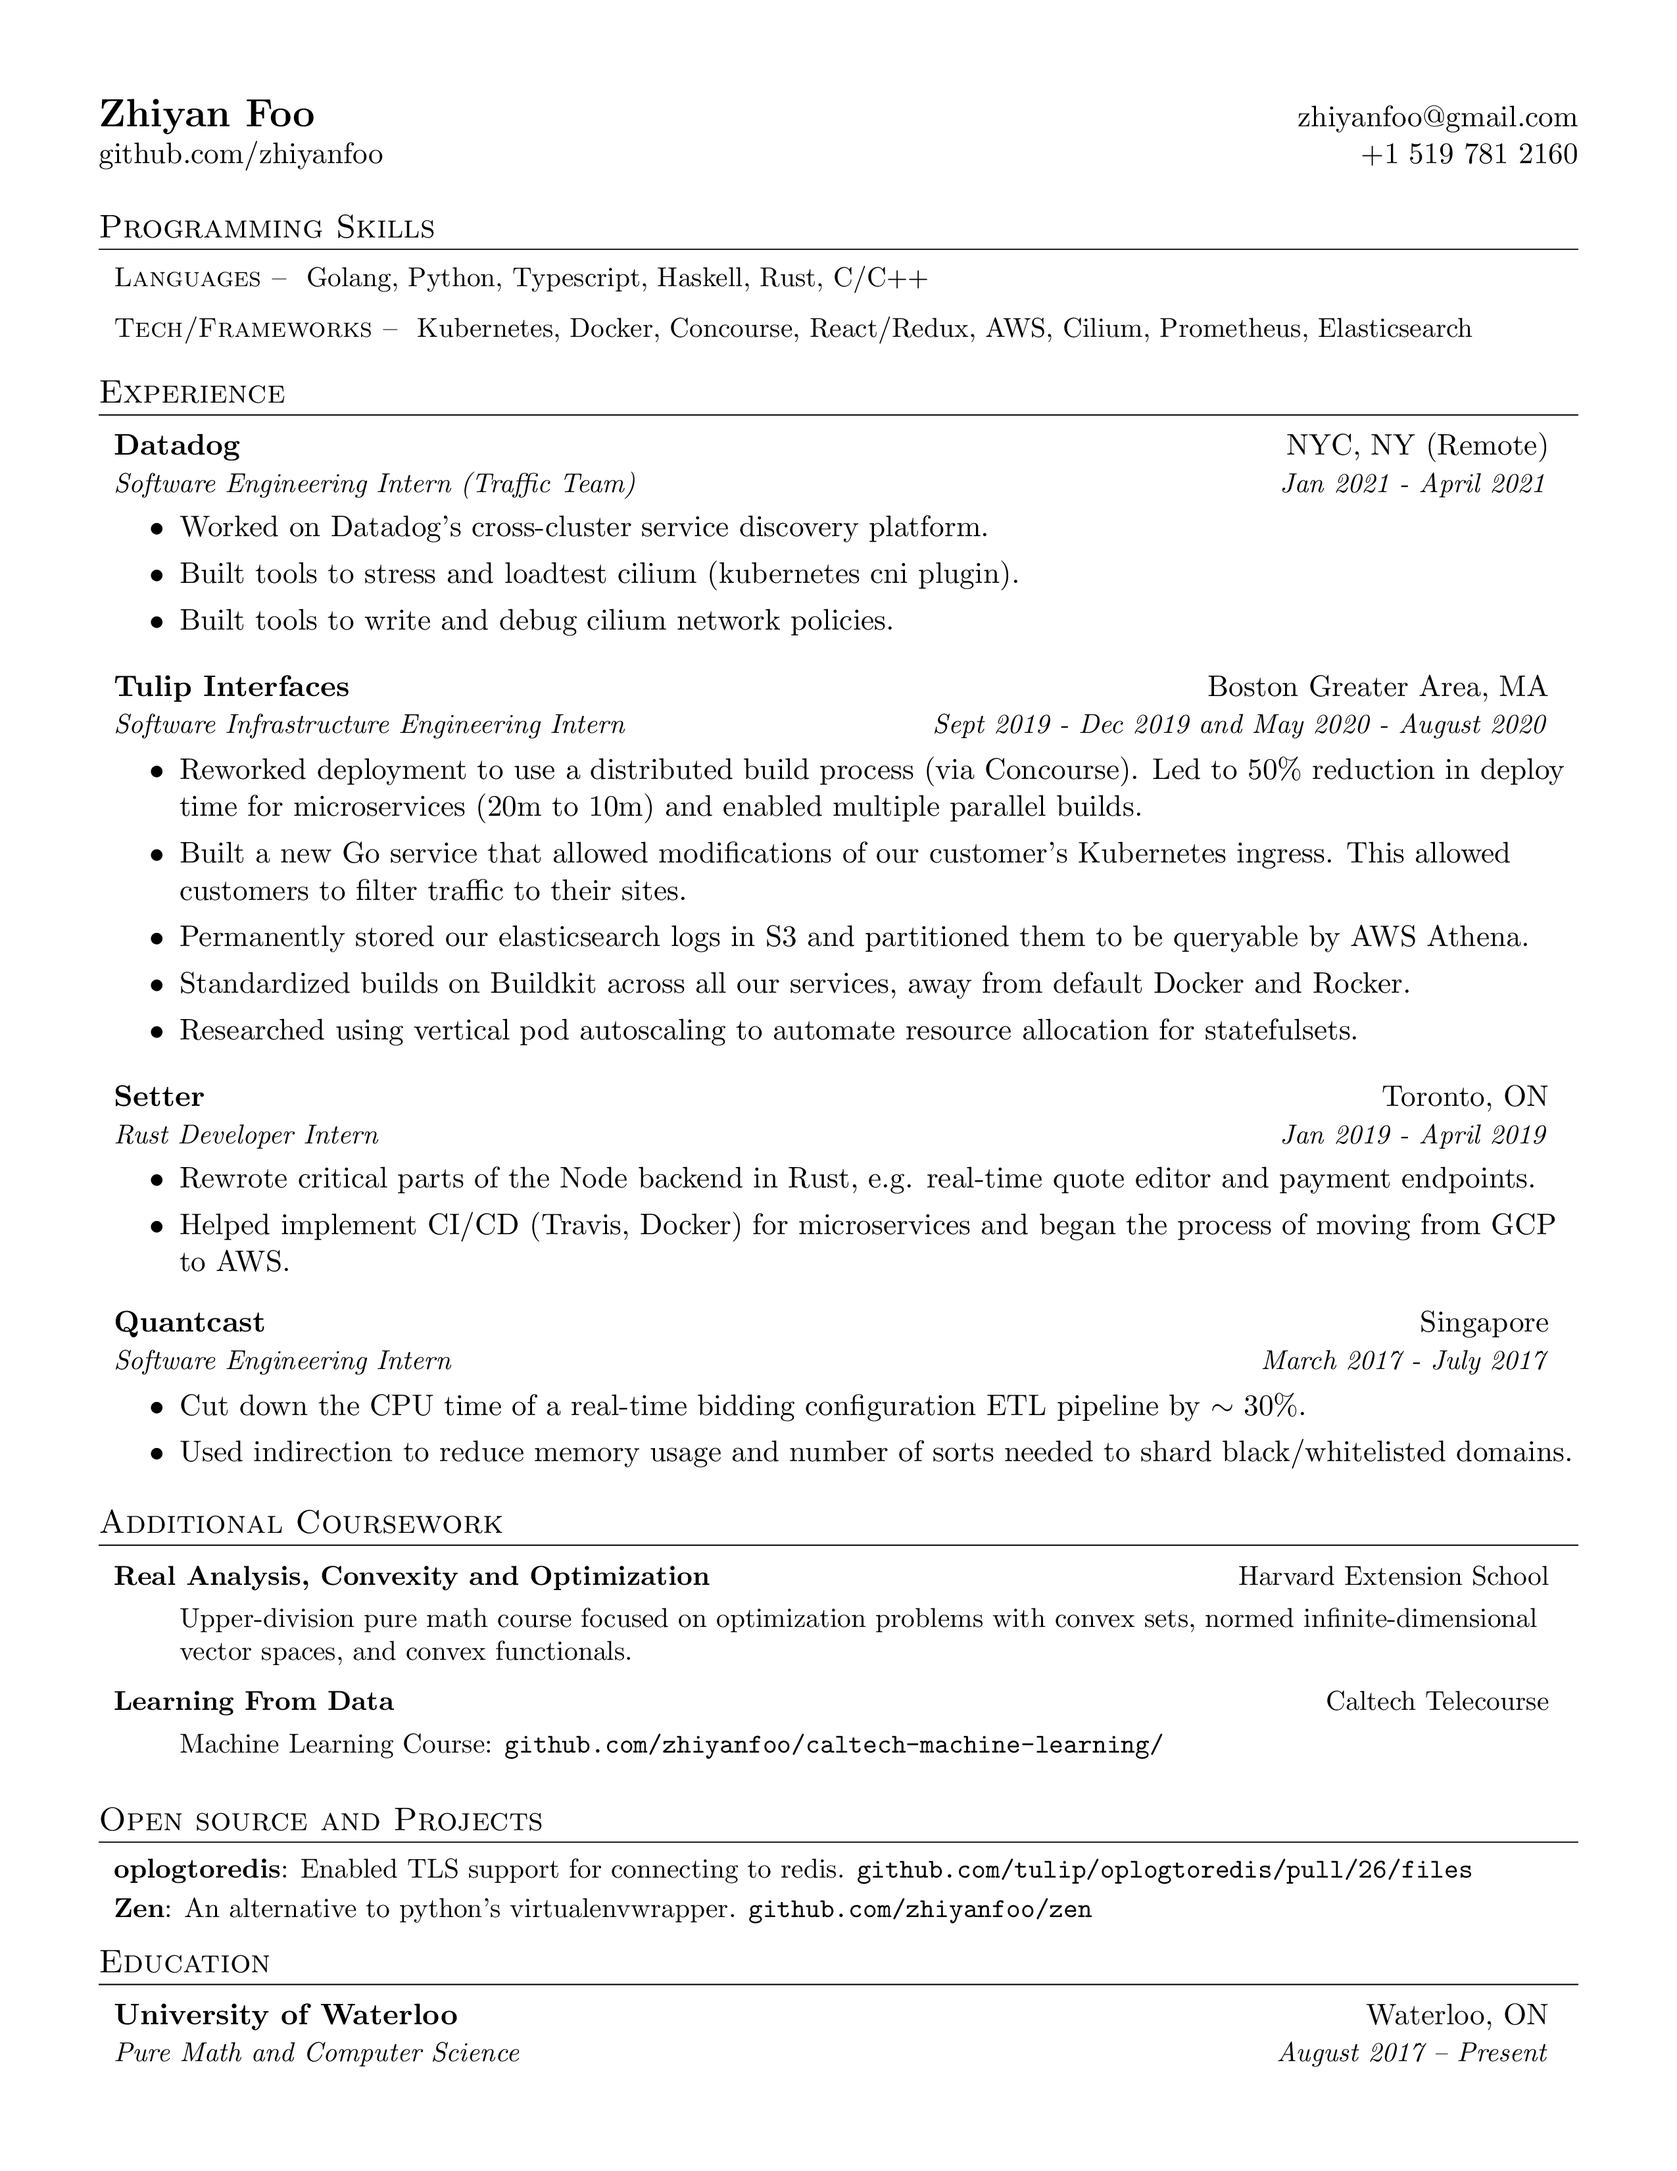
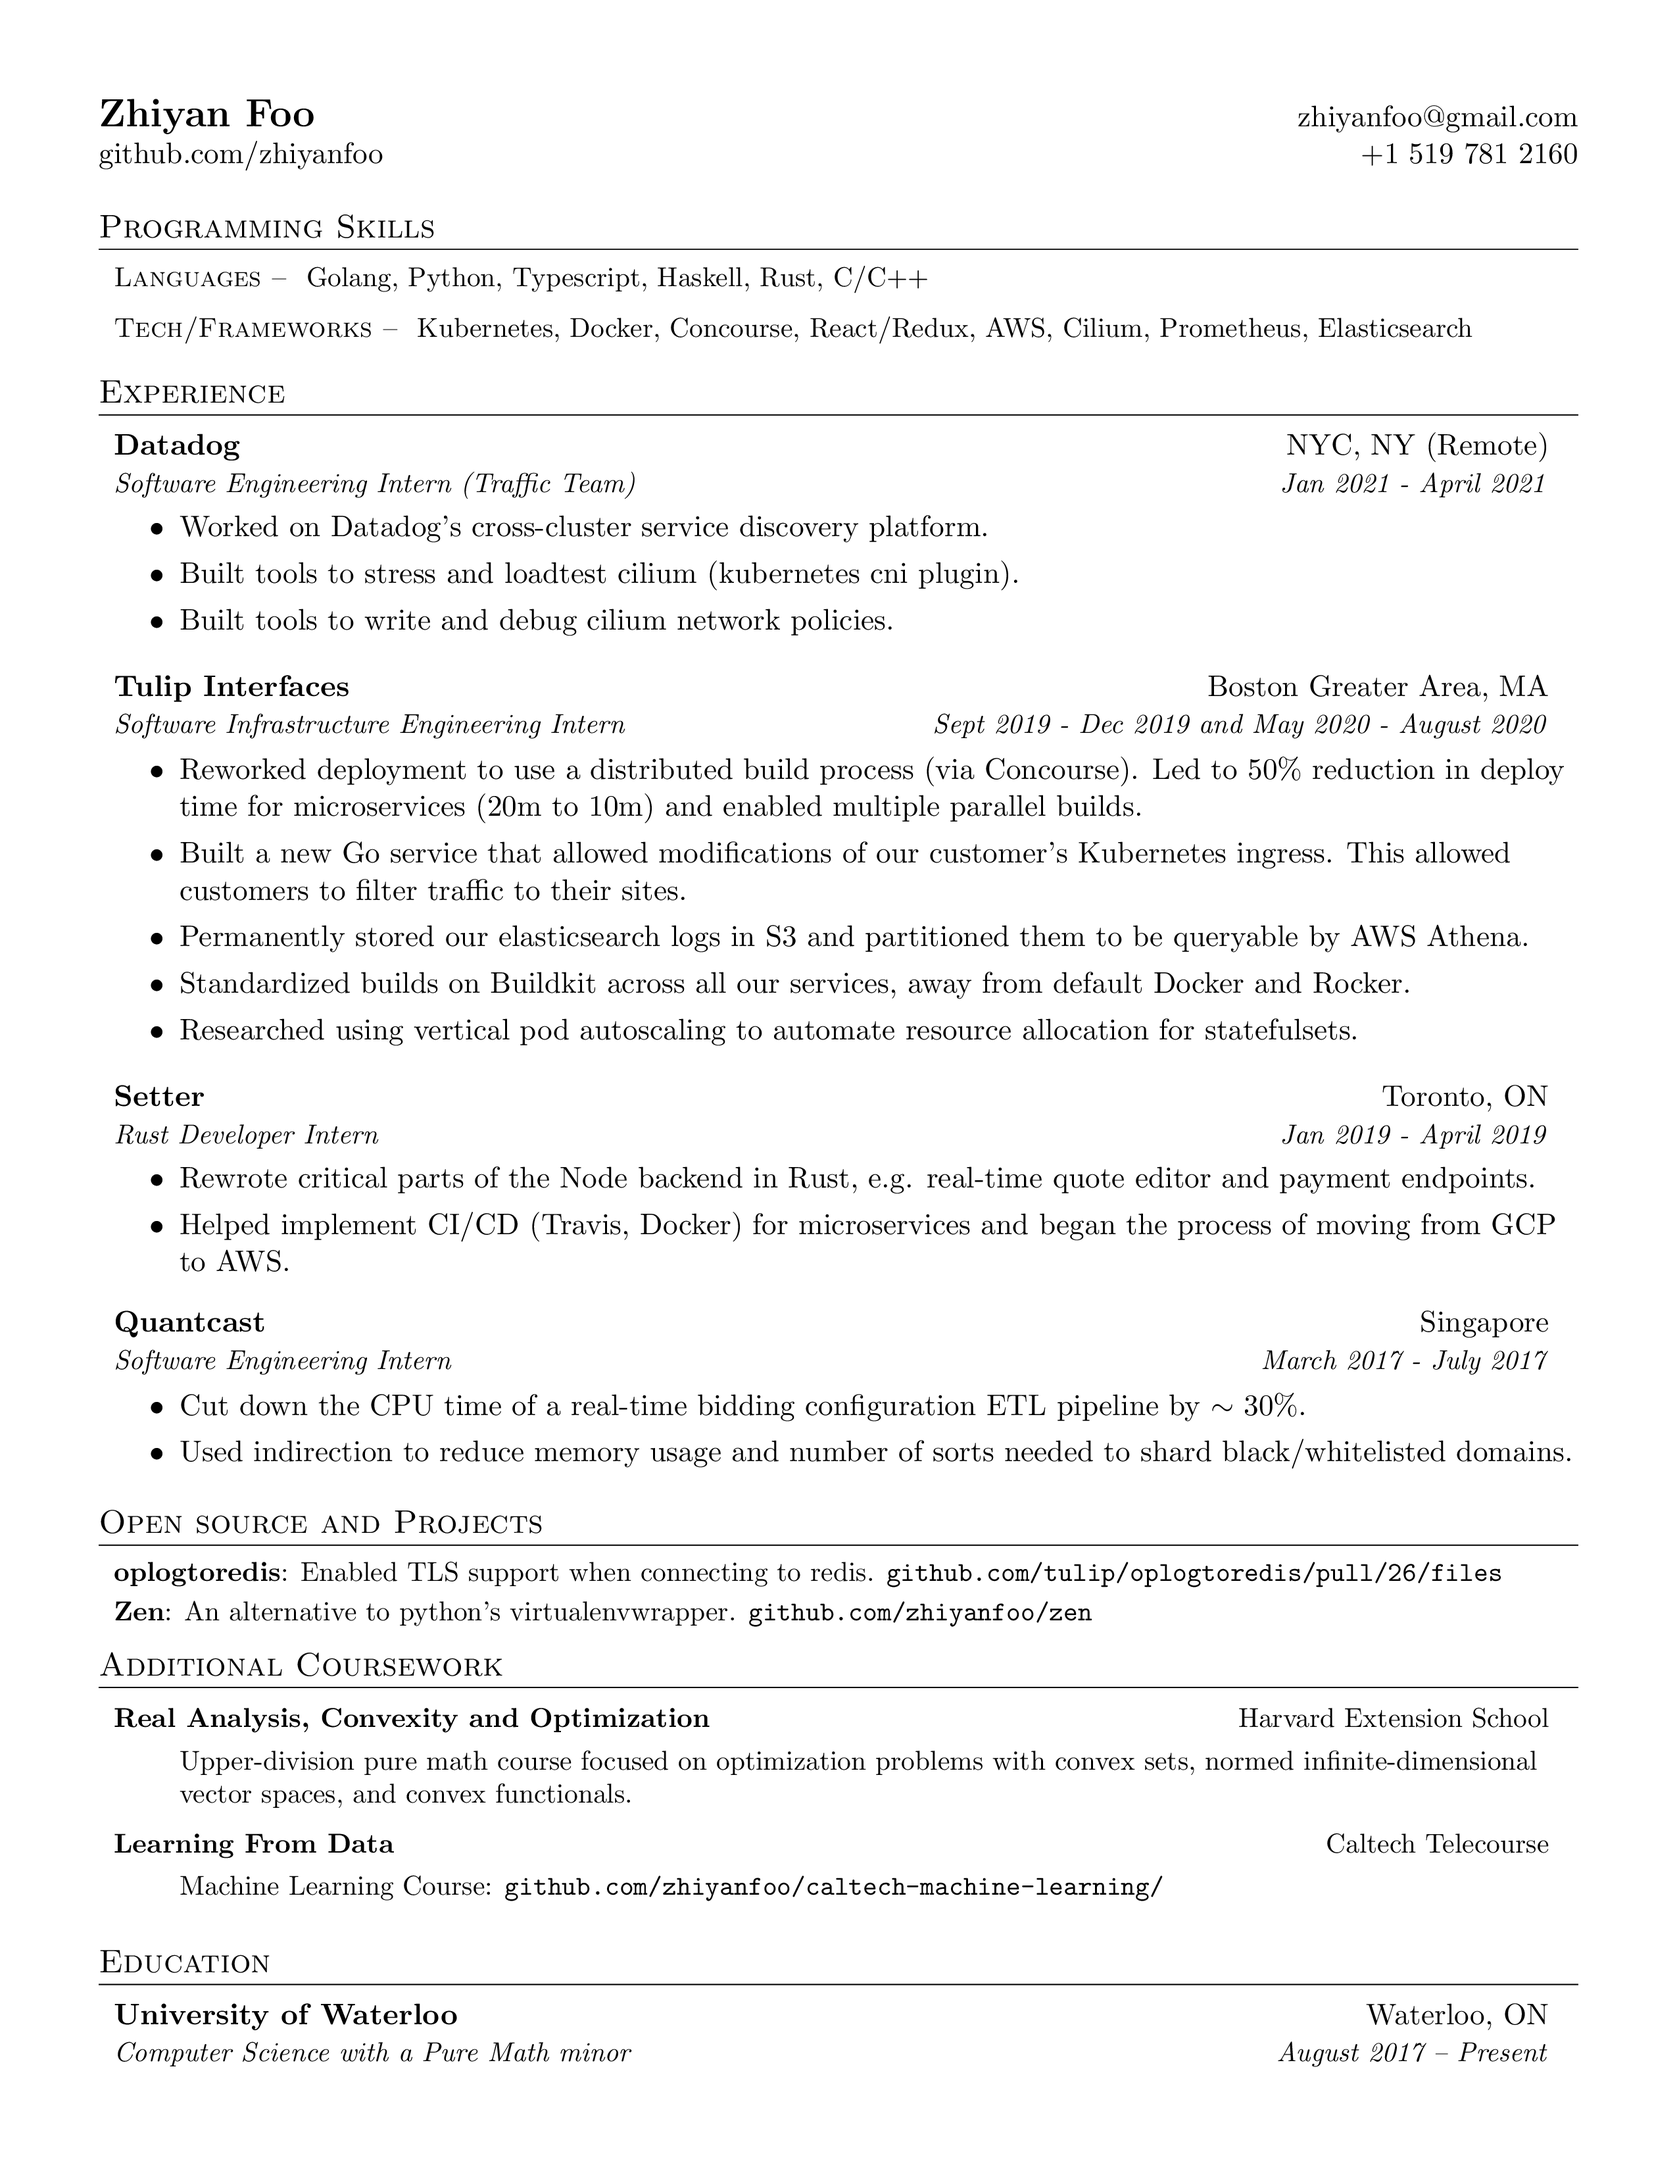
reorganize resume

diff --git a/resume.tex b/resume.tex
@@ -162,6 +162,23 @@
   \resumeSubHeadingListEnd
 %--------------------------------------
 
+
+%-----------PROJECTS-----------------
+\section{Open source and Projects}
+  \resumeSubHeadingListStart
+    \resumeSubItem{oplogtoredis}
+      {Enabled TLS support when connecting to redis.
+            \href{https://github.com/tulip/oplogtoredis/pull/26/files}{\tt
+            github.com/tulip/oplogtoredis/pull/26/files}
+      }
+    \resumeSubItem{Zen}
+      {An alternative to python's virtualenvwrapper.
+            \href{https://github.com/zhiyanfoo/zen}{\tt
+            github.com/zhiyanfoo/zen}
+      }
+  \resumeSubHeadingListEnd
+%-------------------------------------
+
 %------ADDITIONAL-COURSEWORK----------
 \section{Additional Coursework}
  \resumeSubHeadingListStart
@@ -184,23 +201,6 @@
  \resumeSubHeadingListEnd
 %-------------------------------------
 
-%-----------PROJECTS-----------------
-\section{Open source and Projects}
-  \resumeSubHeadingListStart
-    \resumeSubItem{oplogtoredis}
-      {Enabled TLS support for connecting to redis.
-            \href{https://github.com/tulip/oplogtoredis/pull/26/files}{\tt
-            github.com/tulip/oplogtoredis/pull/26/files}
-      }
-    \resumeSubItem{Zen}
-      {An alternative to python's virtualenvwrapper.
-            \href{https://github.com/zhiyanfoo/zen}{\tt
-            github.com/zhiyanfoo/zen}
-      }
-  \resumeSubHeadingListEnd
-%-------------------------------------
-
-
 %%--------Fun--------------------------
 %\section{Extracurriculars}
 % \resumeSubHeadingListStart
@@ -216,7 +216,7 @@
   \resumeSubHeadingListStart
     \resumeSubheading
       {University of Waterloo}{Waterloo, ON}
-      {Pure Math and Computer Science}{August 2017 -- Present}
+      {Computer Science with a Pure Math minor}{August 2017 -- Present}
   \resumeSubHeadingListEnd
 %%-------------------------------------
 
